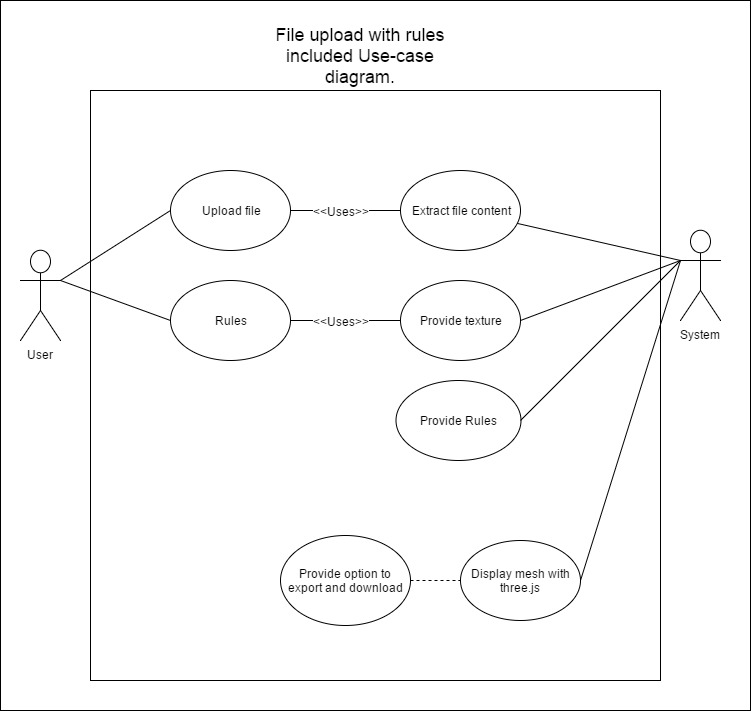
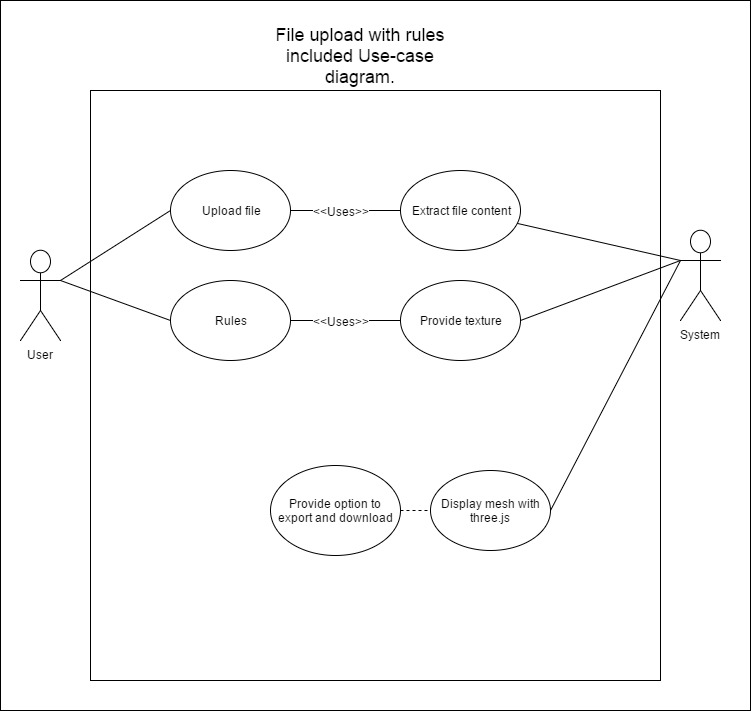
Edited system features

diff --git a/Documents/Requirements Specification/requirementsspecification.tex b/Documents/Requirements Specification/requirementsspecification.tex
@@ -99,25 +99,38 @@
 		HTTP will be used to handle GET and POST requests and FTP will be used for file uploads and downloads.
 	\pagebreak
 	
-	\section{System Features}
+	\section{System Features}		
+		\subsection{File upload with rules feature}
 		\begin{figure}[h]
 			\includegraphics[width=\textwidth]{rules.jpg}
 			\caption{Use Case Diagram for User upload with rules }
 		\end{figure}
-		
-		\begin{figure}[h]
-			\includegraphics[width=\textwidth]{norules.jpg}
-			\caption{Use Case Diagram for User upload with rules }
-		\end{figure}
-	
-		\subsection{System Feature 1}
-		
+
 			 \subsubsection{Description and Priority}
-			 
+			 	This feature is of high priority since the user will not be able to have their exported file if they can not use the upload feature. The penalty would be a 9 out of 10.
+			 \subsubsection{Stimulus/Response Sequences}
+			 	
+			 \subsubsection{Functional Requirements}
+			 	REQ-1: The user needs to be able to upload a file with or without rules.
+			 	REQ-2: The system must be able to export the files from the users upload.
+			 	REQ-3:The system has to provide the textures based on the users rule file.
+			 	REQ-4: The system needs to display the mesh with three.js.
+			 	REQ-5: The system must provide the functionality to download the mesh.
+			 \subsection{File upload without rules feature}
+				\begin{figure}[h]
+					\includegraphics[width=\textwidth]{norules.jpg}
+					\caption{Use Case Diagram for User upload with rules }
+				\end{figure}
+			 \subsubsection{Description and Priority}
+			 This feature is of high priority since the user will not be able to have their exported file if they can not use the upload feature.It is also of high priority to provide a rule file if none was uploaded otherwise there would be no rules to provide textures for.The penalty would be a 9 out of 10. 
 			 \subsubsection{Stimulus/Response Sequences}
 			 
 			 \subsubsection{Functional Requirements}
-			 
+			 	REQ-1: The user needs to be able to upload a file with or without rules.
+			 	REQ-2: The system must be able to export the files from the users upload.
+			 	REQ-3:The system has to provide a rule file for the textures.
+			 	REQ-4: The system needs to display the mesh with three.js.
+			 	REQ-5: The system must provide the functionality to download the mesh.
 	\pagebreak
 	
 	\section{Other Nonfunctional Requirements}
